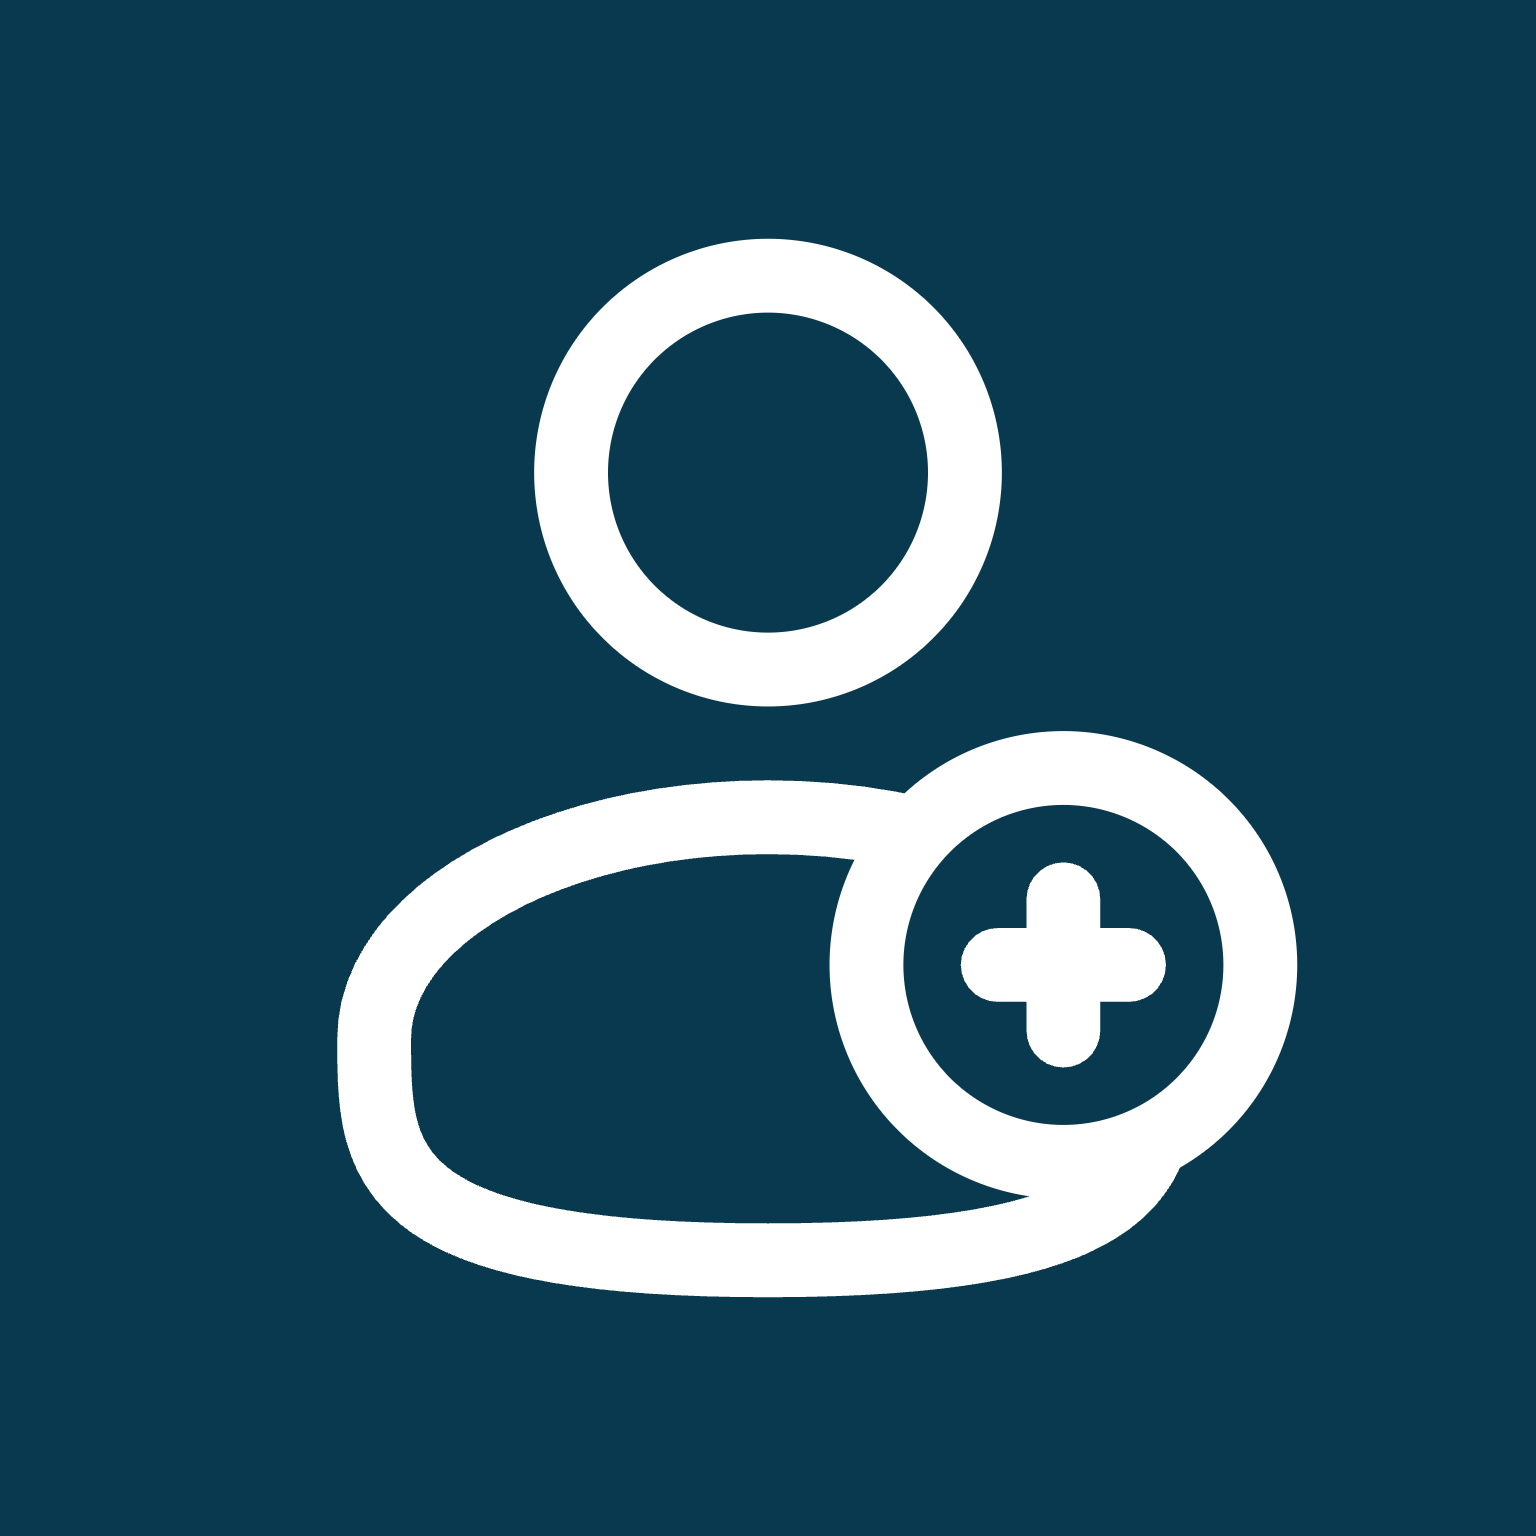
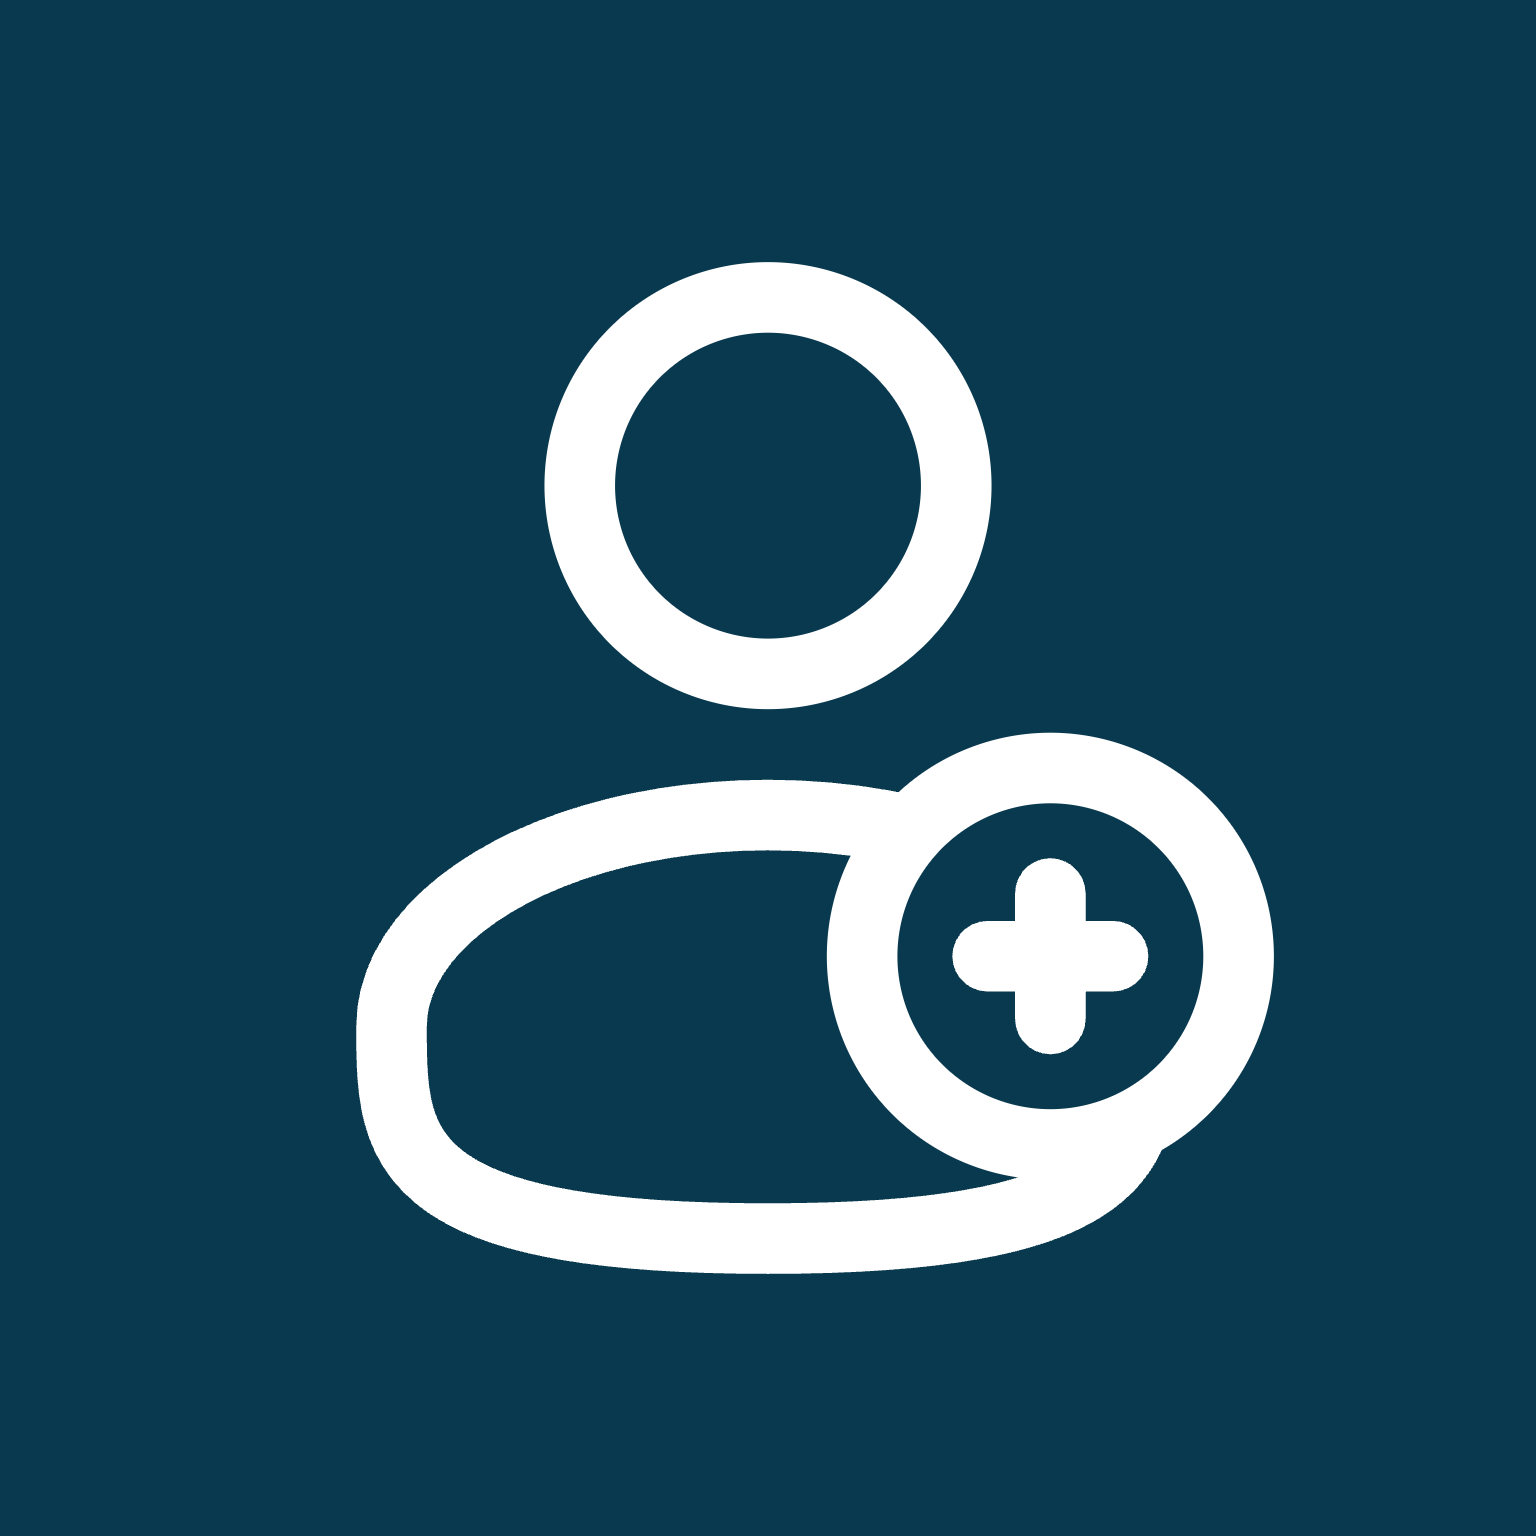
Add files via upload

diff --git a/index.html b/index.html
@@ -346,7 +346,7 @@
                 }
             });
         });
-            <script>
+        
         // Registro do Service Worker para permitir a instalação (PWA)
         if ('serviceWorker' in navigator) {
             window.addEventListener('load', () => {